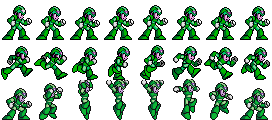
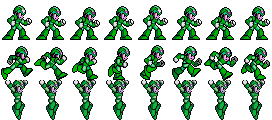
Animacion de salto

diff --git a/src/pro/cyber_plague/modulos/Entidades/Player.cpp b/src/pro/cyber_plague/modulos/Entidades/Player.cpp
@@ -112,12 +112,14 @@ void Player::update(float deltaTime, Map* m)
 		armas[arma_actual]->mejorar();
 	}
 		
-
-	if (movement.x == 0.0f) {
+	if (movement.x == 0.0f && isGrounded()) {
 		row = 0;
 	}
-	else {
-		row = 1;
+	else{
+		if(isGrounded())
+			row = 1;
+		else
+			row = 2;
 
 		if (movement.x > 0.0f) {
 			faceRight = true;

diff --git a/gest/log.md b/gest/log.md
@@ -145,5 +145,5 @@ Creacion clase M_Input para manejar la entrada del teclado.
 ## 20210429 CarlosVillena @(4h)
 Cambios en el resto de clases del proyecto para ajustarlos a los inputs. Hacer que el arma se dispare por pulsacion y no por tecla mantenida y el personaje no puede saltar si mantiene la tecla.
 
-## 20210428 JoseSansano @(3h)
-Retocado el sprite del personaje para que su bounding box no sea tan grande respecto a los pixeles que se ven de él.
+## 20210428 JoseSansano @(3h 10m)
+Retocado el sprite del personaje para que su bounding box no sea tan grande respecto a los pixeles que se ven de él. Animacion cambiada de salto.
